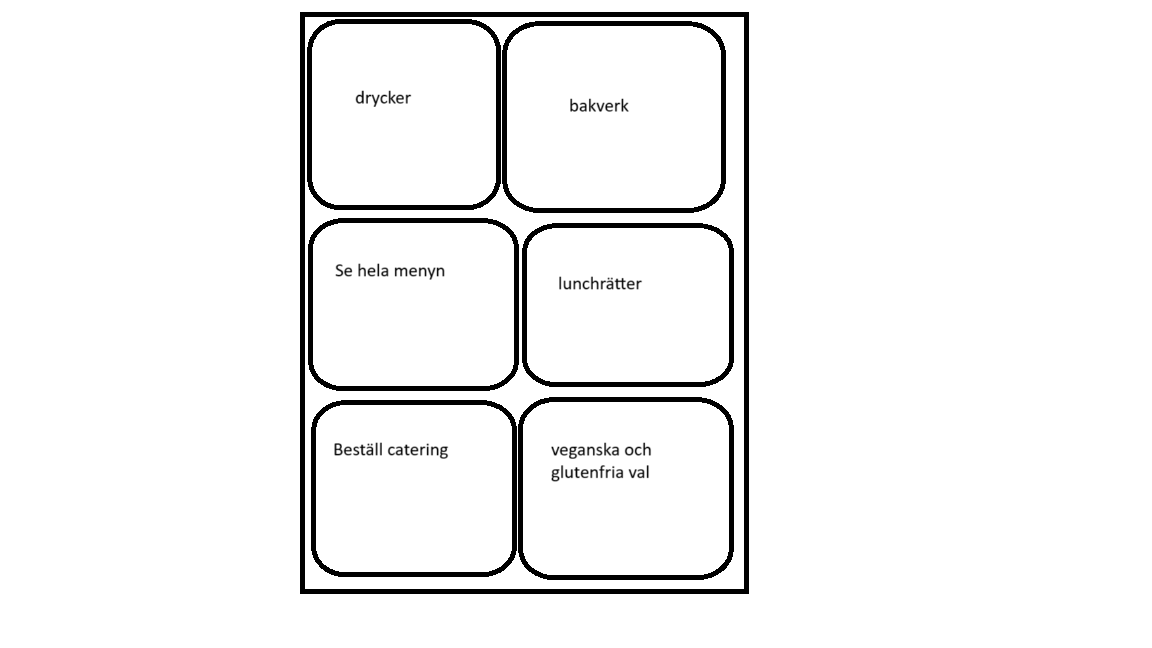
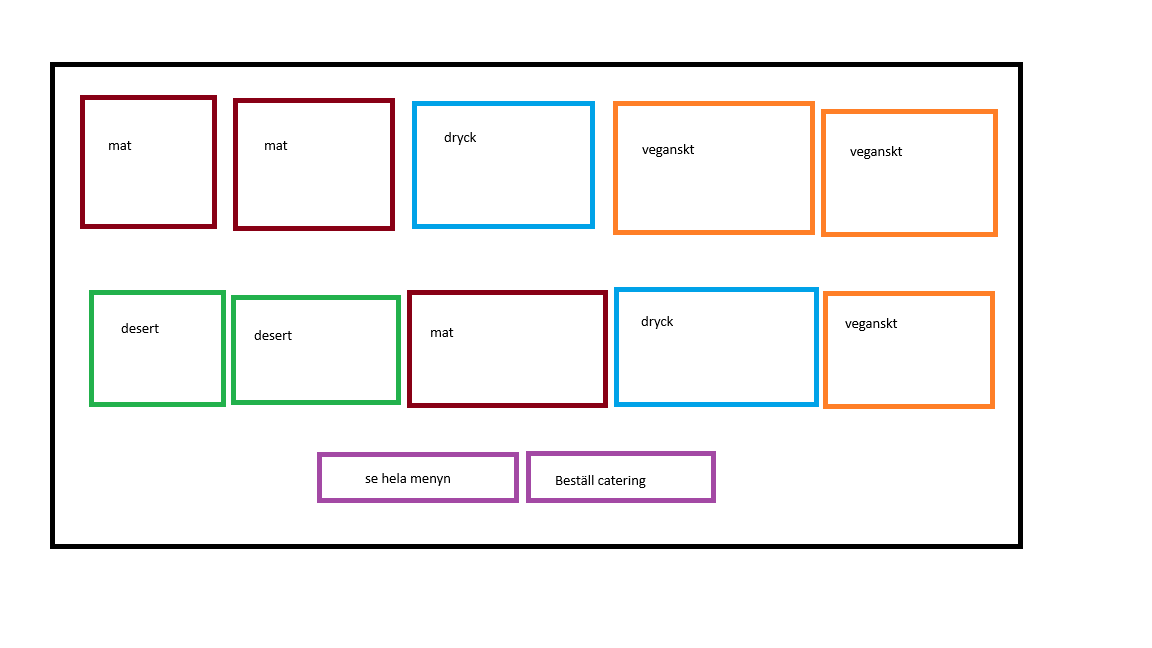
lade till den tredje sidan och justerade skisserna och bilderna lite

Changed region(s): [[0.0312, 0.0, 0.9062, 0.9259], [0.75, 0.216, 0.7812, 0.2469]]

diff --git a/css/style.css b/css/style.css
@@ -40,6 +40,13 @@
     justify-content: center;
 }
 
+.index-text {
+    color: #f6efe8;
+    font-size: 1.6rem;
+    text-shadow: 0 2px 6px rgba(0,0,0,0.5);
+}
+
+
 #meny {grid-area: m}
 #about_us {grid-area: v2}
 
@@ -122,7 +129,7 @@
 
 .badge {
     position: absolute;
-    top: 10px;
+    top: 5%;
     left: 50%;
     transform: translateX(-50%);
     font-size: 1.8rem;
@@ -142,13 +149,7 @@
     opacity: 1;
 }
 
-#m1 { 
-    --bg: url("/img/our\ vision.jpg");
-    color: #f6efe8;
-    font-size: 1.3rem;
-    text-shadow: 0 2px 6px rgba(0,0,0,0.6);
-}
-
+#m1 { --bg: url("/img/spaghettibolognese.jpg")}
 #m2 { --bg: url("/img/västerbottenpaj.jpg")}
 #m3 { --bg: url("/img/lemonade.jpg")}
 #m4 { --bg: url("/img/vegan_alternative.jpg")}
@@ -187,3 +188,62 @@
 
 
 /*css till om oss sidan nedanför*/
+.omosswrapper {
+    display: grid;
+    background-color: #f6efe8;
+    height: 90vh;
+    width: 98%;
+    margin: 5px;
+    overflow-x: auto;
+    gap: 2rem;
+    padding: 1%;
+    text-decoration: transparent;
+    grid-template-columns: 1fr 1fr;
+    grid-template-rows: 2fr 1fr 1fr;
+    grid-template-areas: 
+    "vision vision"
+    "karta personal"
+    "tider formulär";
+}
+
+.omosscard {
+    height: 100%;
+    background: #a5b58d;
+    border: 5px solid #b58b63;
+    justify-content: center;
+    align-items: center;
+    margin: 5px;
+    text-align: center;
+    border-radius: 40px;
+    display: flex;
+    flex-direction: column;
+    justify-content: center;
+    align-items: center;
+    text-align: center;
+}
+
+.omosstitle {
+    position: absolute;
+    top: 5%;
+    left: 50%;
+    transform: translateX(-50%);
+    font-size: 1.8rem;
+    text-shadow: 0 2px 6px rgba(0,0,0,0.6);
+    color:#f6efe8;
+}
+
+.picture {background-repeat: no-repeat; background-size: cover; background-image: var(--bg);}
+.omossbildtext {
+    color: #f6efe8; 
+    font-size: 1.3rem; 
+    text-shadow: 0 2px 6px rgba(0,0,0,0.9);
+    text-align: center;
+    line-height: 1.6;
+    margin-top: 1rem;
+}
+
+#vision{grid-area: vision; position: relative; --bg: url("../img/our vision.jpg")}
+#karta {grid-area: karta; position: relative; --bg: url("../img/")}
+#personal_och_ägare {grid-area:personal; position: relative}
+#öppettider{grid-area: tider; position: relative}
+#kontaktformulär{grid-area: formulär; position: relative}

diff --git a/omoss.html b/omoss.html
@@ -6,7 +6,22 @@
     <title>Document</title>
     <link rel="stylesheet" href="/css/style.css">
 </head>
-<body>
-    
+<body class="omosswrapper">
+    <div id="vision" class="omosscard picture">
+        <span class="omosstitle">Vår vision</span>
+        <span class="omossbildtext">Vår vision är att samarbeta med lokala odlare och leverantörer för att <br> skapa ett hållbart kafé där kvalitet, omtanke och gemenskap står i centrum. <br> <br> Kafé Solglimt startade ur en kärlek till hembakat och en längtan efter <br> en lugn mötesplats i vardagen.  Vi ville skapa ett kafé där människor <br> kan slå sig ner, ta en paus och njuta av kaffe och <br> bakverk gjort med omsorg.</span>
+    </div>
+    <div id="karta" class="omosscard picture">
+        <span class="omosstitle">Hitta hit!</span>
+    </div>
+    <div id="personal_och_ägare" class="omosscard">
+        <span class="omosstitle">Personal och ägare</span>
+    </div>
+    <div id="öppettider" class="omosscard">
+        <span class="omosstitle">Öppettider</span>
+    </div>
+    <div id="kontaktformulär" class="omosscard">
+        <span class="omosstitle">Kontaktformulär</span>
+    </div>
 </body>
 </html>

diff --git a/index.html b/index.html
@@ -8,15 +8,15 @@
     <title>Landing page</title>
 </head>
 <body id="landingpage-wrapper">
-    <div id="meny" class="topbox">
+    <div id="meny" class="topbox index-text">
         <a href="http://127.0.0.1:5500/meny.html">Meny</a>
     </div>
-    <div id="about_us" class="topbox">
-        <a href="#">About us</a>
+    <div id="about_us" class="topbox index-text">
+        <a href="http://127.0.0.1:5500/omoss.html">About us</a>
     </div>
     <div id="v3" class="panel"></div>
     <div id="v4" class="panel">
-        <div id="v41">
+        <div id="v41" class="index-text">
             Welcome to our website
         </div>
     </div>

diff --git a/meny.html b/meny.html
@@ -8,7 +8,7 @@
 </head>
 <body class="menywrapper">
     <div class="menyöver">
-        <div class="card" id="m1"><span>Vår vision är att kunna samarbeta <br> med lokala odlare och leverantörer</div>
+        <div class="card" id="m1"><span class="card-text">Spaghetti och köttfärsås</div>
         <div class="card" id="m2"><span class="card-text">Västerbottenpaj</div>
         <div class="card" id="m3"><span class="card-text">Lemonad</div>
         <div class="card veganskt" id="m4">
